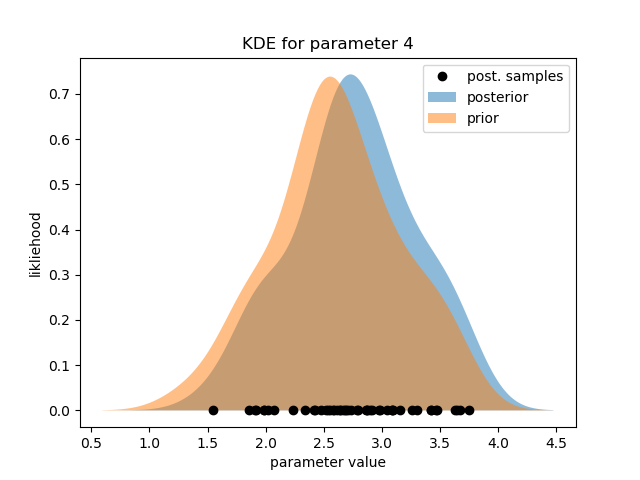
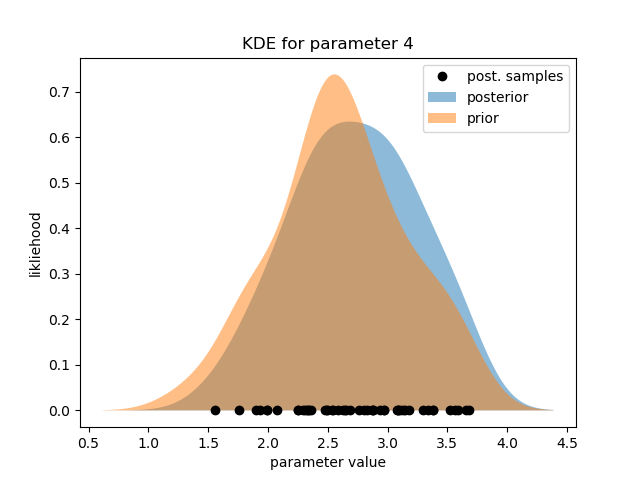
zero order tests now including analytical solutions

diff --git a/4DEnVar_engine.c b/4DEnVar_engine.c
@@ -62,11 +62,9 @@ An implementation of 4DEnVar
 
     /*n.b. as we are setting x0=xb_bar then w=0 so
     we do not need to compute the initial transformation
-    into ensemble space as w is initialised as 0
-        
+    into ensemble space as w is initialised as 0.        
     As a consequence, we don't need an x0 variable. Obvs.
     */
-
 
     /*set up structure holding everything
     needed to calculate the cost function #
@@ -117,39 +115,42 @@ gsl_matrix * fourDEnVar_sample_posterior( gsl_matrix * xb, gsl_matrix * hx, gsl_
     int signum_r;
     gsl_permutation *p_r=gsl_permutation_alloc(R->size1);
     gsl_matrix *R_inv = gsl_matrix_calloc(R->size1, R->size2);
+    int signum_w;
+    gsl_permutation *p_w=gsl_permutation_alloc(hx->size2);
+    gsl_matrix *Wa = gsl_matrix_calloc(hx->size2, hx->size2);
+
     gsl_matrix *work1 = gsl_matrix_alloc(hx->size1, hx->size2);
     gsl_matrix *work2 = gsl_matrix_calloc(hx->size2, hx->size2);
 
     gsl_matrix *X_dash_a = gsl_matrix_alloc(xb->size1, xb->size2);
     gsl_matrix *X_a = gsl_matrix_alloc(xb->size1, xb->size2);
 
-    int signum_w;
-    gsl_permutation *p_w=gsl_permutation_alloc(hx->size2);
-    gsl_matrix *W_inv = gsl_matrix_calloc(hx->size2, hx->size2);
 
-
+    /*set I*/
     gsl_matrix_set_identity(work2);
-
 
     /*invert the R matrix*/
     gsl_linalg_LU_decomp(R, p_r, &signum_r);
     gsl_linalg_LU_invert(R, p_r, R_inv);
-
     
     /*calculate the mean of each parameter 
     in the ensemble*/
     xb_bar = mean_vector_from_matrix(xb);
     
     /*calculate the perturbation matrix
-    eqn 21 in Pinnington 2020*/
-    //scale=1./sqrt((float)nens-1.);
+    eqn 21 in Pinnington 2020
+    
+    Note - that paper applies a scaling of:
+    scale=1./sqrt((float)nens-1.);
+    but that is error. Here using scale=1.
+    See also step (2) below.
+    */
     scale=1.;
     X_dash_b = perturbation_matrix(xb,xb_bar,scale);
 
     /*calculate HXb matrix
     eqn 26 in Pinnington 2020*/
     HX_dash_b = perturbation_matrix(hx,hx_bar,scale);
-
 
     /*Wa=sqrt(I+Y'b^T*R^-1*Y'b)
     See eqn A16 in Pinnington et al. 2021
@@ -163,10 +164,10 @@ gsl_matrix * fourDEnVar_sample_posterior( gsl_matrix * xb, gsl_matrix * hx, gsl_
     /*2. (HX'b)^T*work1 + I
     Note: work2 = I
     Note: use use of scale here differs from Pinnington et al. 2021
+    the equations in the appendix of that paper appear to be incorrect
     */
     
     scale=1./((float)nens-1.); 
-    //gsl_blas_dgemm(CblasTrans, CblasNoTrans, 1.0, HX_dash_b, work1, 1.0, work2);
     gsl_blas_dgemm(CblasTrans, CblasNoTrans, scale, HX_dash_b, work1, 1.0, work2);
 
     /* 3. work2 now contains I+Y'b^T*R^-1*Y'b
@@ -174,25 +175,25 @@ gsl_matrix * fourDEnVar_sample_posterior( gsl_matrix * xb, gsl_matrix * hx, gsl_
     Need to zero the upper left triangle as GSL
     leaves the original matrix in there.
     
-    DO WE NEED TO ZERO THE UL TRIANGLE?
+    (n.b. tested the zeroing of the UL by
+    confirming it was necessary to make A=LL^T)
     */
 
     gsl_linalg_cholesky_decomp1(work2);  
-    //for(i=0;i<work2->size1;i++)
-    //    for(j=i+1;j<work2->size2;j++)
-    //        gsl_matrix_set(work2, i, j, 0.0);
+    for(i=0;i<work2->size1;i++)
+        for(j=i+1;j<work2->size2;j++)
+           gsl_matrix_set(work2, i, j, 0.0);
             
-
     /*3a. Invert the square root matrix*/
     gsl_linalg_LU_decomp(work2, p_w, &signum_w);
-    gsl_linalg_LU_invert(work2, p_w, W_inv);
+    gsl_linalg_LU_invert(work2, p_w, Wa);
 
         
     /*4. X'a = X'b * Wa
     Note - work2 contains Wa.
     */     
 
-    gsl_blas_dgemm(CblasNoTrans, CblasNoTrans, 1.0, X_dash_b, W_inv, 0.0, X_dash_a);
+    gsl_blas_dgemm(CblasNoTrans, CblasNoTrans, 1.0, X_dash_b, Wa, 0.0, X_dash_a);
     
     /*Now compute Xa=X'a+xa
     */

diff --git a/zero_order_tests/genZero.py b/zero_order_tests/genZero.py
@@ -1,7 +1,7 @@
 import numpy as np
 from matplotlib import pyplot as plt
 from  scipy.stats import gaussian_kde as kde
-
+import scipy.stats as stats
 
 
 class zeroOrderModelEnsemble:
@@ -24,7 +24,7 @@ class zeroOrderModelEnsemble:
     def gen_prior_ensemble(self):
         self.ensemble=np.zeros([self.nens,len(self.truth)])
         for n in range(self.nens):
-            self.ensemble[n,:]=self.prior+self.uncert_prior*np.random.randn(len(self.prior))
+            self.ensemble[n,:]=self.prior+np.sqrt(self.uncert_prior)*np.random.randn(len(self.prior))
         
     def gen_obs(self):
         
@@ -34,14 +34,14 @@ class zeroOrderModelEnsemble:
         for n in range(len(self.nobs)):
             tmp=np.ones(self.nobs[n])*self.truth[n]
             if self.perturb_obs:
-                self.obs.append(tmp+self.obs_uncert[n]*np.random.randn(len(tmp)))
+                self.obs.append(tmp+np.sqrt(self.obs_uncert[n])*np.random.randn(len(tmp)))
             else:
                 self.obs.append(tmp)
         
     def plot(self,filename=None,analysis=None,full_posterior=None):
 
         for n in range(len(self.truth)):
-            k_prior=kde(self.ensemble[:,n])
+            k_prior=kde(self.ensemble[:,n],bw_method='silverman')
     
             #work out plot positions for KDE
             mn=np.min(self.ensemble[:,n])
@@ -52,9 +52,25 @@ class zeroOrderModelEnsemble:
    
             plt.fill_between(positions,k_prior(positions),label="prior",alpha=0.5)
 
+            #add analytical distribution:
+            plt.plot(positions, stats.norm.pdf(positions, prior[n], np.sqrt(prior_uncert[n])))
+            
             if full_posterior is not None:
-                k_post=kde(full_posterior[:,n])
+                k_post=kde(full_posterior[:,n],bw_method='silverman')
                 plt.fill_between(positions,k_post(positions),label="posterior",alpha=0.5)
+
+                #calculate analytical posterior
+                p=self.uncert_prior[n]
+                r=self.obs_uncert[n]
+                x=self.prior[n]
+                for m in range(self.nobs[n]):
+                    y=self.obs[n][m]
+                    k=p/(p+r)
+                    x=x+k*(y-x)
+                    p=(1-k)*p
+                #plot analytical posterior
+                plt.plot(positions, stats.norm.pdf(positions, x, np.sqrt(p)))
+
 
             #add prior mean and truth
             ymn=plt.gca().get_ylim()[0]
@@ -133,25 +149,24 @@ if __name__=="__main__":
 
     import subprocess
 
-    truth=[1.0,1.0]
-    prior=[0.5,0.5]
-    prior_uncert=[1.0,1.0]
-    nens=500
-    nobs=[5,1]
-    obs_uncert=[1.0,1.0]
+    #all uncertainties are in variances
+    truth=[5.0,5.0]
+    prior=[1.0,1.0]
+    prior_uncert=[4.0,4.0]
+    nens=200
+    nobs=[1,4]
+    obs_uncert=[4.0,4.0]
 
     z=zeroOrderModelEnsemble(truth,prior,prior_uncert,nens,nobs,obs_uncert)
     z.perturb_obs=False
     z.gen_obs()
     z.write_files()
-    #z.plot()
 
     #run the 4DEnVar via a subprocess
     out=subprocess.run(["../4DEnVar","0xb.dat","0hx.dat","0y.dat","0R.dat","0hxbar.dat"],capture_output=True)
     out=out.stdout.decode("utf-8").rstrip().split("\n")
 
-    #print(out)
-   
+    #parse output
     analysis=[]
     for i in range(len(truth)):
         analysis.append(float(out[i]))
